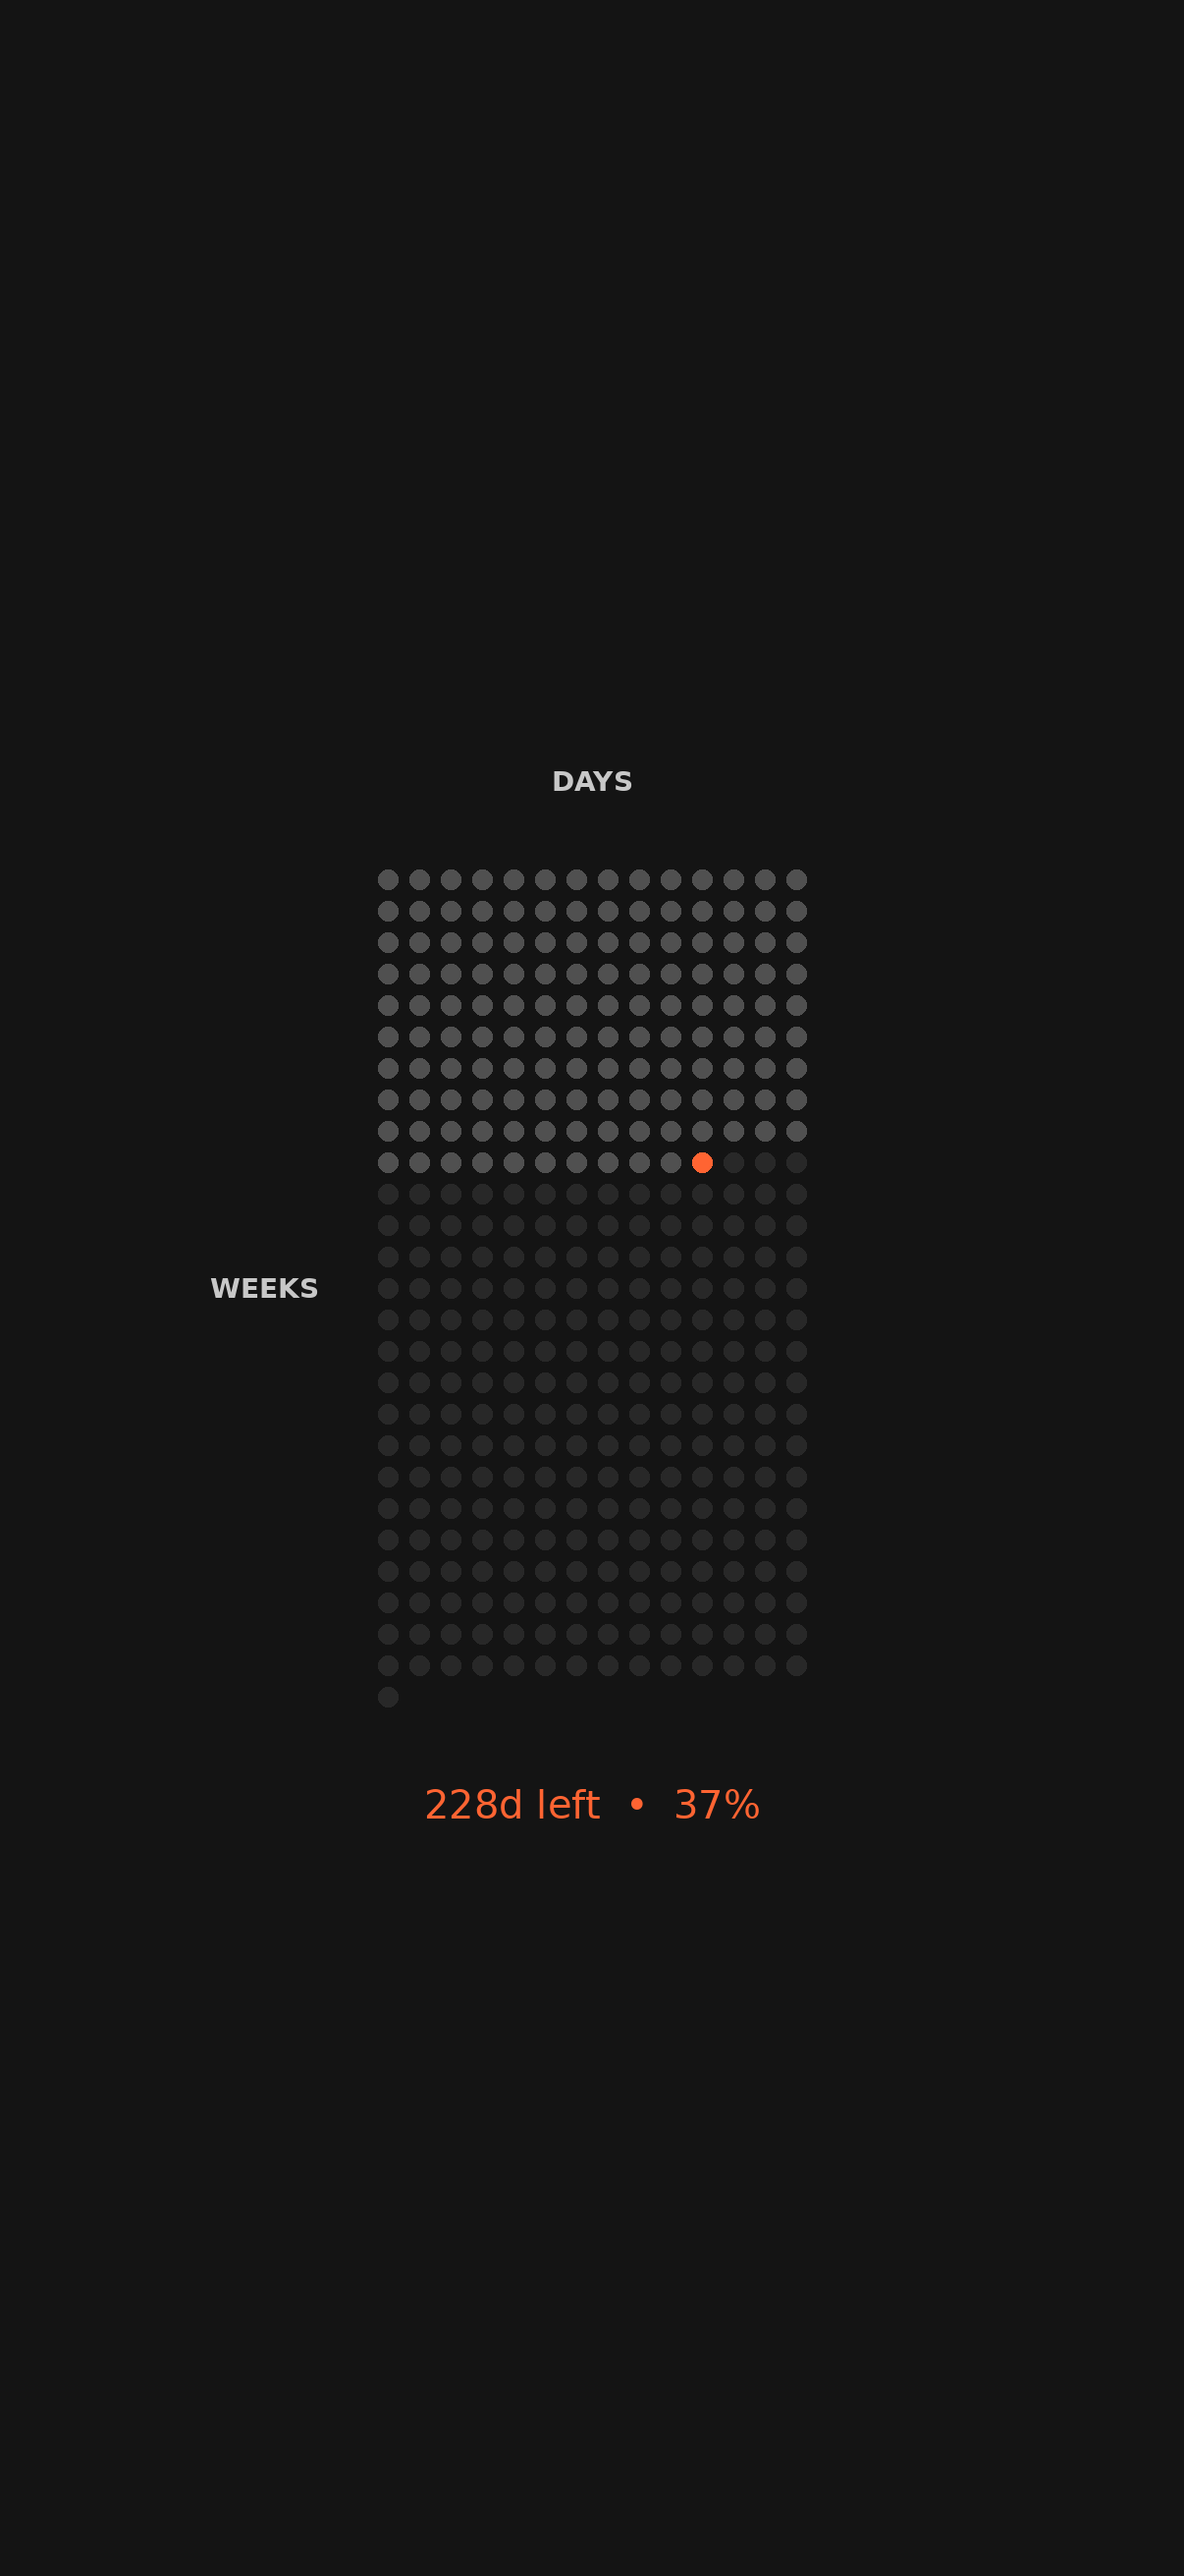
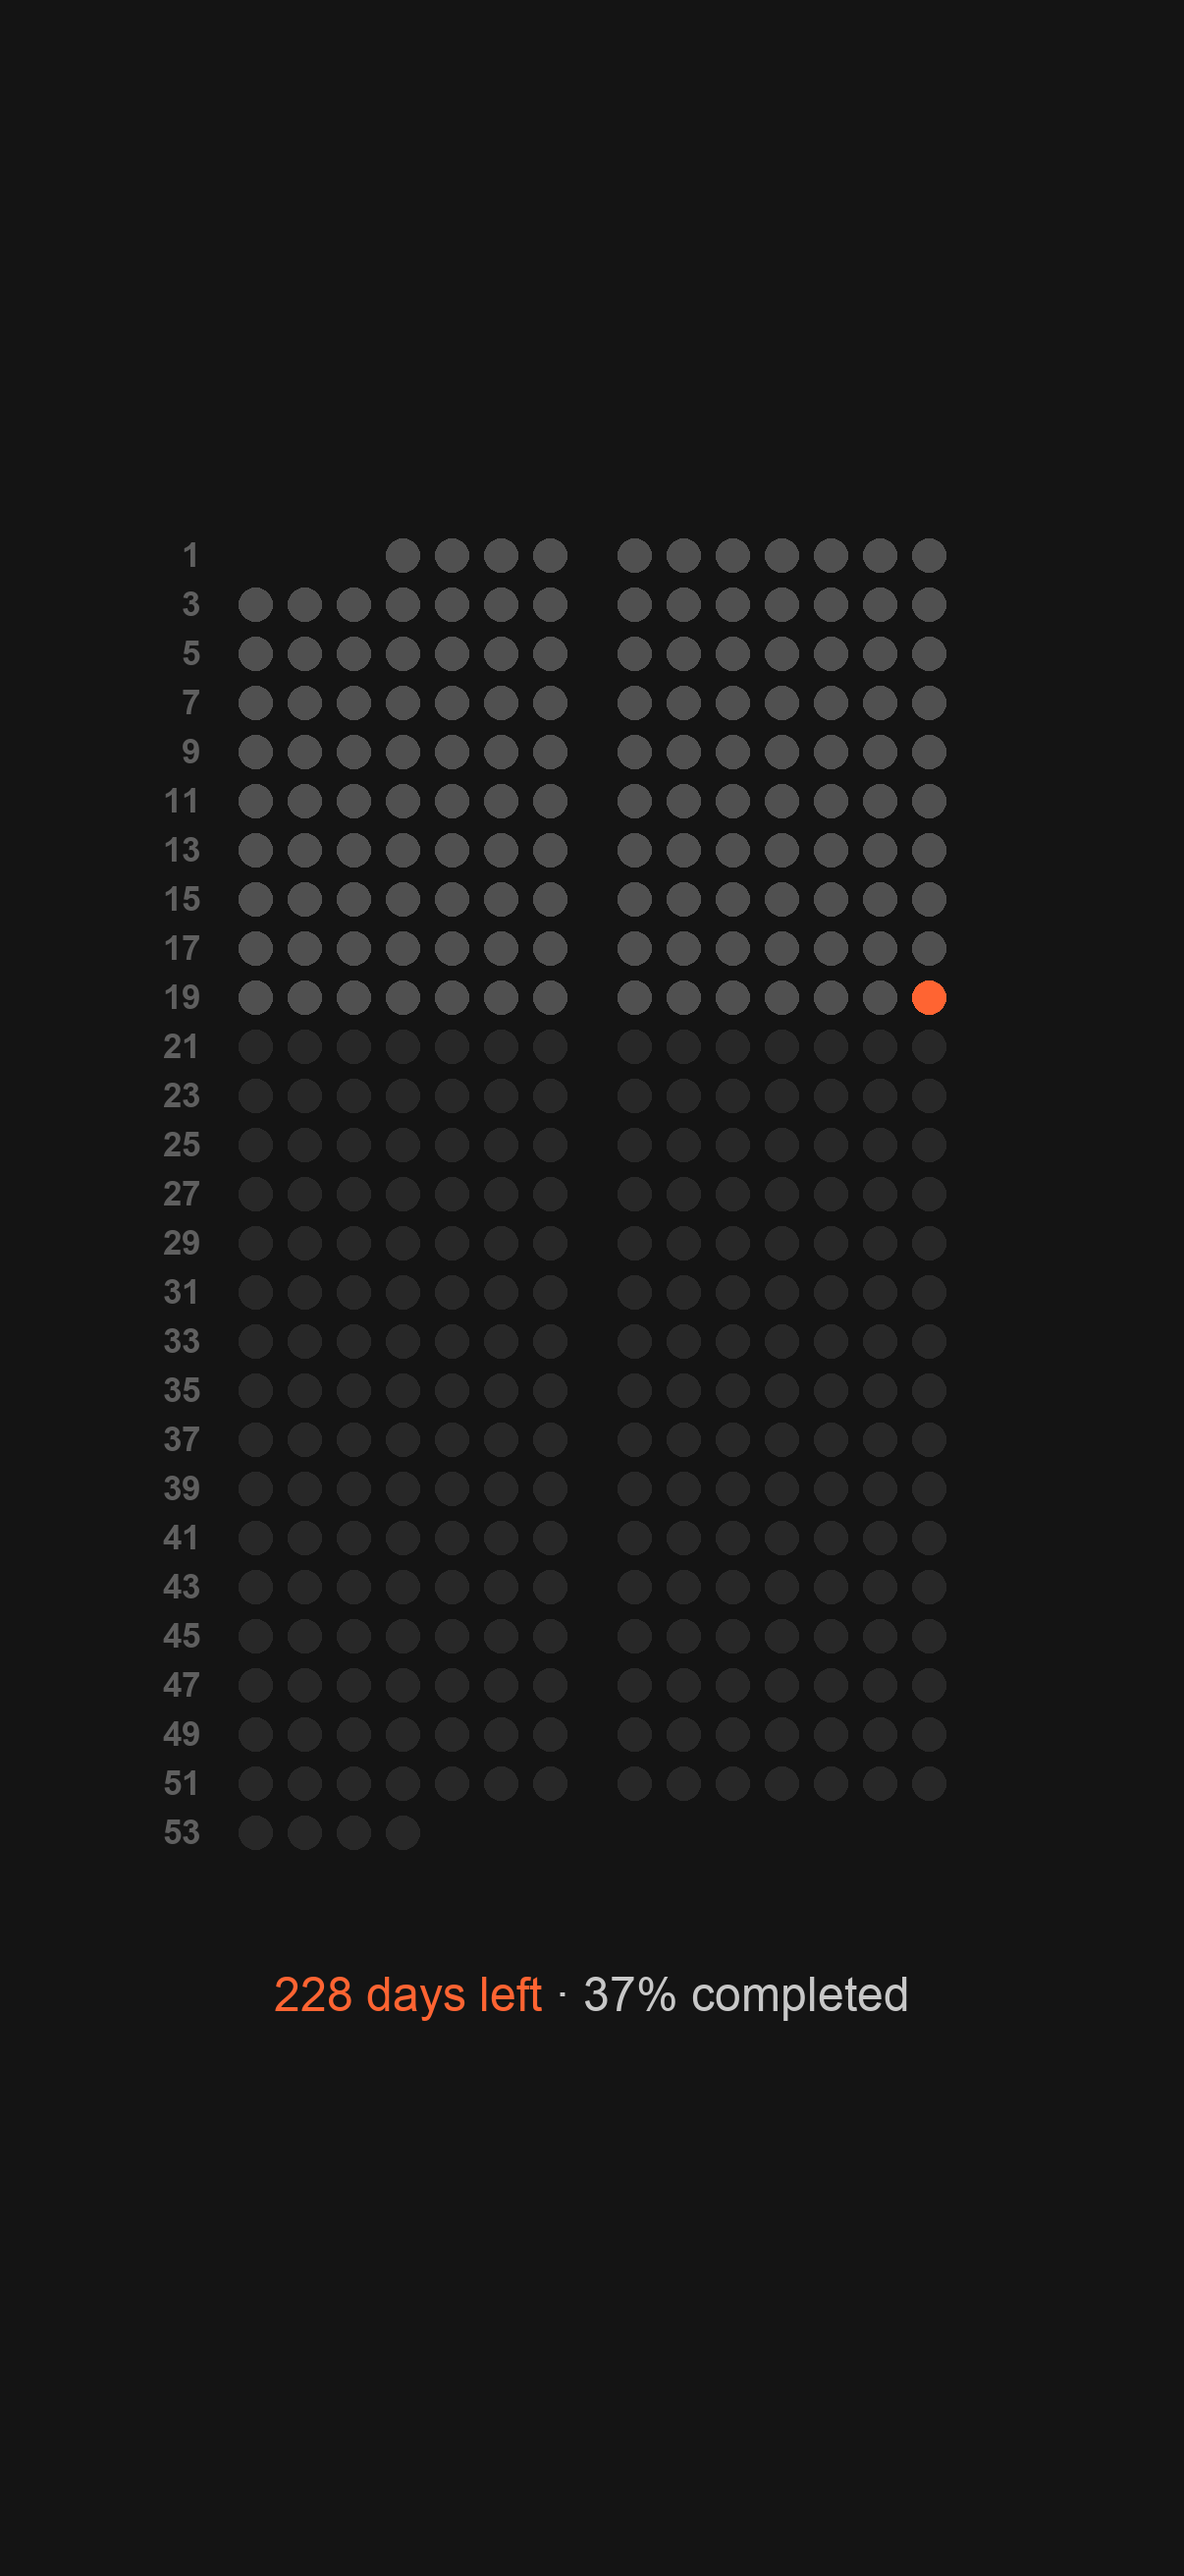
adapting design

diff --git a/generate_year_wallpaper.py b/generate_year_wallpaper.py
@@ -1,14 +1,32 @@
 from PIL import Image, ImageDraw, ImageFont
-from datetime import date
+from datetime import date, timedelta
 import calendar
+import math
+import os
 
 # --- CONFIGURATION ---
-SCREEN_SIZE = (1206, 2622)     # Resolution of iPhone
+SCREEN_SIZE = (1206, 2622)     # iPhone 17 resolution
 BG_COLOR = (20, 20, 20)        # Dark Charcoal
 FILLED_COLOR = (80, 80, 80)    # Light Gray
 EMPTY_COLOR = (40, 40, 40)     # Dark Gray
 ACTIVE_COLOR = (255, 100, 50)  # Orange
 TEXT_COLOR = (200, 200, 200)   # Light Gray labels
+WEEK_LABEL_COLOR = (95, 95, 95)
+
+def scaled_size(percent_of_width):
+    return max(1, round(min(SCREEN_SIZE) * percent_of_width))
+
+def load_font(size, bold=False):
+    font_paths = [
+        "/System/Library/Fonts/Supplemental/Arial Bold.ttf" if bold else "/System/Library/Fonts/Supplemental/Arial.ttf",
+        "/System/Library/Fonts/HelveticaNeue.ttc",
+        "/System/Library/Fonts/SFNS.ttf",
+        "/usr/share/fonts/truetype/dejavu/DejaVuSans-Bold.ttf" if bold else "/usr/share/fonts/truetype/dejavu/DejaVuSans.ttf",
+    ]
+    for font_path in font_paths:
+        if os.path.exists(font_path):
+            return ImageFont.truetype(font_path, size)
+    return ImageFont.load_default()
 
 def create_year_wallpaper():
     today = date.today()
@@ -16,6 +34,8 @@ def create_year_wallpaper():
     is_leap = calendar.isleap(year)
     total_days = 366 if is_leap else 365
     day_of_year = today.timetuple().tm_yday
+    first_day = date(year, 1, 1)
+    leading_empty_days = first_day.weekday()
     
     # Stats
     days_left = total_days - day_of_year
@@ -24,69 +44,84 @@ def create_year_wallpaper():
     img = Image.new('RGB', SCREEN_SIZE, color=BG_COLOR)
     draw = ImageDraw.Draw(img)
 
-    # --- GRID SETTINGS (RESIZED TO FIT) ---
+    # --- GRID SETTINGS ---
     cols = 14
-    rows = 27
+    rows = math.ceil((leading_empty_days + total_days) / cols)
     
-    # NEW SMALLER SIZES
-    # Previous settings were too big for the height of the screen
-    dot_radius = 10            
-    dot_size = dot_radius * 2  # 20px
-    gap = 12                   # 13px gap
+    dot_radius = scaled_size(0.014)
+    dot_size = dot_radius * 2
+    gap = scaled_size(0.013)
+    week_gap = scaled_size(0.03)
     
     # Calculate grid dimensions
-    grid_width = (cols * dot_size) + ((cols - 1) * gap)
+    grid_width = (cols * dot_size) + ((cols - 1) * gap) + week_gap
     grid_height = (rows * dot_size) + ((rows - 1) * gap)
     
     # Center Point
     start_x = (SCREEN_SIZE[0] - grid_width) // 2
-    start_y = (SCREEN_SIZE[1] - grid_height) // 2
+    start_y = ((SCREEN_SIZE[1] - grid_height) // 2) - scaled_size(0.08)
 
     # --- FONTS ---
-    try:
-        font_main = ImageFont.truetype("/usr/share/fonts/truetype/dejavu/DejaVuSans.ttf", 40)
-        font_label = ImageFont.truetype("/usr/share/fonts/truetype/dejavu/DejaVuSans-Bold.ttf", 28)
-    except IOError:
-        font_main = ImageFont.load_default()
-        font_label = ImageFont.load_default()
-
-    # --- LABELS ---
-    
-    # 1. Top Label: "DAYS"
-    # Drawn 80px above the grid
-    draw.text((SCREEN_SIZE[0]//2, start_y - 80), "DAYS", fill=TEXT_COLOR, font=font_label, anchor="ms")
-    
-    # 2. Side Label: "WEEKS"
-    # Drawn 60px to the left of the grid
-    draw.text((start_x - 60, start_y + grid_height//2), "WEEKS", fill=TEXT_COLOR, font=font_label, anchor="rm")
+    font_main = load_font(scaled_size(0.04))
+    font_label = load_font(scaled_size(0.029), bold=True)
 
     # --- DRAW GRID ---
-    current_day_index = 1
-    
     for row in range(rows):
+        week_number = (row * 2) + 1
+        draw.text(
+            (start_x - scaled_size(0.032), start_y + row * (dot_size + gap) + dot_radius),
+            str(week_number),
+            fill=WEEK_LABEL_COLOR,
+            font=font_label,
+            anchor="rm",
+        )
+
         for col in range(cols):
-            if current_day_index > total_days:
-                break
-                
+            cell_index = (row * cols) + col
+            day_offset = cell_index - leading_empty_days
+            current_date = first_day + timedelta(days=day_offset)
+
             x = start_x + col * (dot_size + gap)
+            if col >= 7:
+                x += week_gap
             y = start_y + row * (dot_size + gap)
             
             box = [x, y, x + dot_size, y + dot_size]
             
-            if current_day_index < day_of_year:
+            if current_date < first_day or current_date.year > year:
+                continue
+            elif current_date < today:
                 draw.ellipse(box, fill=FILLED_COLOR)
-            elif current_day_index == day_of_year:
-                # Active Day (Orange)
+            elif current_date == today:
                 draw.ellipse(box, fill=ACTIVE_COLOR)
             else:
                 draw.ellipse(box, fill=EMPTY_COLOR)
-            
-            current_day_index += 1
 
     # --- FOOTER STATS ---
     # Drawn 100px below the grid
-    stats_text = f"{days_left}d left  •  {percent_done}%"
-    draw.text((SCREEN_SIZE[0]//2, start_y + grid_height + 100), stats_text, fill=ACTIVE_COLOR, font=font_main, anchor="mm")
+    if days_left == 0:
+        left_text = "Last day of the year"
+    else:
+        day_label = "day" if days_left == 1 else "days"
+        left_text = f"{days_left} {day_label} left"
+    right_text = f" · {percent_done}% completed"
+    max_text_width = SCREEN_SIZE[0] * 0.9
+    for font_size in range(scaled_size(0.04), scaled_size(0.029), -2):
+        font_main = load_font(font_size)
+        left_box = draw.textbbox((0, 0), left_text, font=font_main)
+        right_box = draw.textbbox((0, 0), right_text, font=font_main)
+        left_width = left_box[2] - left_box[0]
+        right_width = right_box[2] - right_box[0]
+        if left_width + right_width <= max_text_width:
+            break
+    left_box = draw.textbbox((0, 0), left_text, font=font_main)
+    right_box = draw.textbbox((0, 0), right_text, font=font_main)
+    left_width = left_box[2] - left_box[0]
+    right_width = right_box[2] - right_box[0]
+    text_x = (SCREEN_SIZE[0] - left_width - right_width) // 2
+    text_y = start_y + grid_height + scaled_size(0.1)
+    draw.text((text_x, text_y), left_text, fill=ACTIVE_COLOR, font=font_main, anchor="la")
+    draw.text((text_x + left_width, text_y), right_text, fill=TEXT_COLOR, font=font_main, anchor="la")
 
     img.save("year_progress.png")
     print("Year progress wallpaper generated.")

diff --git a/README.md b/README.md
@@ -1,104 +1,58 @@
-![Wallpaper Update](https://github.com/t0k3n0/year/actions/workflows/update_wallpaper.yml/badge.svg)
+![Wallpaper Update](https://github.com/Ben0x0a/year-dots-wp/actions/workflows/update_wallpaper.yml/badge.svg)
 
-# Life & Year Progress Wallpapers
+# Year Progress Wallpaper
 
-A "set and forget" automation that generates a dynamic wallpaper for your iPhone every morning. It runs on GitHub Actions (for free) and updates your lock screen via iOS Shortcuts.
+A small GitHub Actions automation that generates a dynamic iPhone wallpaper every day. The wallpaper shows one dot for each day of the current year, grouped as two weeks per row, with today's dot highlighted.
+
+Inspired by the original [t0k3n0/year](https://github.com/t0k3n0/year) repository.
 
 ## Features
-* **Life in Weeks:** A "Memento Mori" grid showing your past and future weeks.
-* **Year Progress:** A daily updated grid of the current year (365 days), highlighting today in orange.
-* **Zero Battery Drain:** All graphics are rendered on the server; your phone just downloads the final image.
+* **Year Progress:** A daily updated grid of the current year, highlighting today in orange.
+* **Calendar Alignment:** Rows start on Monday, with week numbers shown subtly on the left.
+* **Zero Battery Drain:** The image is rendered by GitHub Actions; your phone only downloads the final PNG.
 
 ## Setup Guide
 
 ### 1. Fork this Repository
-Click the **Fork** button (top right) to create your own copy of this project.
+Click the **Fork** button to create your own copy of this project.
 
-### 2. Set Your Birthday
-1.  Go to **Settings** > **Secrets and variables** > **Actions**.
-2.  Click **New repository secret**.
-3.  **Name:** `USER_BIRTHDAY`
-4.  **Secret:** `1995-01-01` (YYYY-MM-DD).
-    * *Note: If you skip this, it defaults to the year 2000.*
+### 2. Activate the Generator
+1. Go to the **Actions** tab.
+2. Click **Update Wallpapers** on the left.
+3. Click **Run workflow** to generate your first image.
 
-### 3. Activate the Generator
-1.  Go to the **Actions** tab.
-2.  Click **Update Wallpapers** on the left.
-3.  Click **Run workflow** to generate your first set of images.
+## Customizing for Your Phone
 
----
-
-## 📱 Customizing for Your Phone
-
-The default resolution is set for **iPhone 13/14/15 Pro** (`1170 x 2532`). If you have a Max, Plus, or Mini model, you should update the resolution so the grid is perfectly centered.
+The default resolution is set for **iPhone 17** (`1206 x 2622`). The raw GitHub image URL serves a static PNG, so query parameters like `?resolution=...` cannot make GitHub Actions render a different size on demand. If you use another phone, update the resolution before the workflow runs.
 
 ### How to Change Resolution
-1.  Open `generate_wallpaper.py` (Life) and `generate_year_wallpaper.py` (Year).
-2.  Click the **Pencil Icon** to edit.
-3.  Find this line near the top:
+1. Open `generate_year_wallpaper.py`.
+2. Find this line near the top:
     ```python
-    SCREEN_SIZE = (1170, 2532)
+    SCREEN_SIZE = (1206, 2622)
     ```
-4.  Change it to your device's resolution:
+3. Change it to your device's resolution:
+    * **iPhone 17:** `(1206, 2622)`
     * **iPhone 14/15/16 Pro Max:** `(1290, 2796)`
     * **iPhone 13/14 Pro Max:** `(1284, 2778)`
     * **iPhone 11 / XR:** `(828, 1792)`
     * **iPhone 12 / 13 Mini:** `(1080, 2340)`
 
-### Advanced Style Tweaks
-Inside `generate_year_wallpaper.py`, you can modify these variables to change the look:
+## iOS Shortcut Setup
 
-* **Make it Compact/Squared:**
-    Change `gap = 4` and replace `draw.ellipse` with `draw.rectangle` in the code.
-* **Change Colors:**
-    Update `BG_COLOR` (Background) or `ACTIVE_COLOR` (Today's Dot) using RGB values (e.g., `(255, 0, 0)` is Red).
+Create a shortcut with:
 
----
+1. **Get Contents of URL**
+2. Paste your raw image link:
+    ```text
+    https://raw.githubusercontent.com/<YOUR_USERNAME>/year-dots-wp/main/year_progress.png
+    ```
+    Replace `<YOUR_USERNAME>` with your GitHub username. If you rename the forked repository, replace `year-dots-wp` with your repository name. If your default branch is not `main`, replace `main` with your branch name.
+3. Open the URL in a browser once after the workflow has run. It should display the generated PNG directly.
+4. **Get Image from Input**
+5. **Set Wallpaper** with "Show Preview" turned off
+6. Set an Automation to run this daily
 
-## 🔗 iOS Shortcut Setup
+## Android Setup
 
-You need to create a simple Shortcut on your iPhone to fetch the image.
-
-### Option A: Single Wallpaper
-1.  Create a shortcut with **Get Contents of URL**.
-2.  Paste your **Raw Image Link**:
-    * `https://raw.githubusercontent.com/<YOUR_USERNAME>/year/main/year_progress.png`
-    * *(Or use `wallpaper.png` for the Life view)*
-3.  Add **Get Image from Input**.
-4.  Add **Set Wallpaper** (Turn off "Show Preview").
-5.  Set an Automation to run this daily at 4:00 AM.
-
-
----
-
-## 🤖 Android Setup
-
-Since Android doesn't have a built-in "Shortcuts" app, you will need a small app to fetch the wallpaper. Here are the three best options (all free).
-
-### Option 1: Remote Wallpaper (Best Open Source)
-A tiny, no-nonsense app that does exactly one thing: downloads an image from a URL and sets it as your wallpaper.
-* **Download:** [Get the APK here](https://github.com/cssnr/remote-wallpaper-android/releases)
-* **Setup:**
-  1. Open the app.
-  2. **Remote URL:** Paste your Raw GitHub Link (ending in `.png`).
-  3. **Interval:** Set to `24 Hours`.
-  4. Tap **Start**.
-
-### Option 2: Muzei (Best for Aesthetics)
-A polished "Live Wallpaper" app that creates a nice blur/dim effect behind your icons.
-* **Download:** [Play Store](https://play.google.com/store/apps/details?id=net.nurik.roman.muzei) or [F-Droid](https://f-droid.org/en/packages/net.nurik.roman.muzei/)
-* **Setup:**
-  1. Install **Muzei** + the **"With Others"** plugin (or any URL plugin).
-  2. Open Muzei and set it as your wallpaper.
-  3. Tap **Sources** -> **With Others**.
-  4. Paste your Raw GitHub Link.
-  5. Set Update Interval to `24h`.
-
-### Option 3: MacroDroid (For Power Users)
-If you want complex logic (e.g., randomizing between Life/Year views), use this automation tool.
-* **Download:** [Play Store](https://play.google.com/store/apps/details?id=com.arlosoft.macrodroid)
-* **Setup:**
-  1. Create a macro with a **Daily Timer** trigger (e.g., 4:00 AM).
-  2. Add Action: **HTTP Request** (GET) -> Paste your URL -> Save to file `wallpaper.png`.
-  3. Add Action: **Set Wallpaper** -> Select that file.
-
+Use any wallpaper app that can fetch a remote image URL on a schedule, such as [Remote Wallpaper](https://github.com/cssnr/remote-wallpaper-android/releases), Muzei with a URL source, or MacroDroid.
